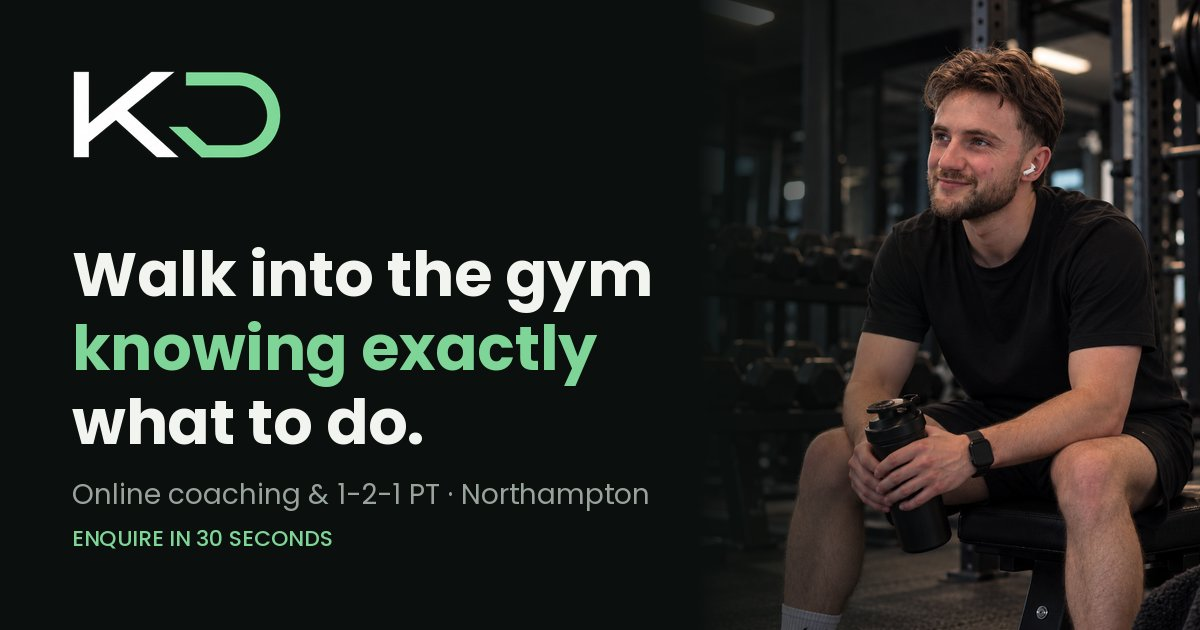
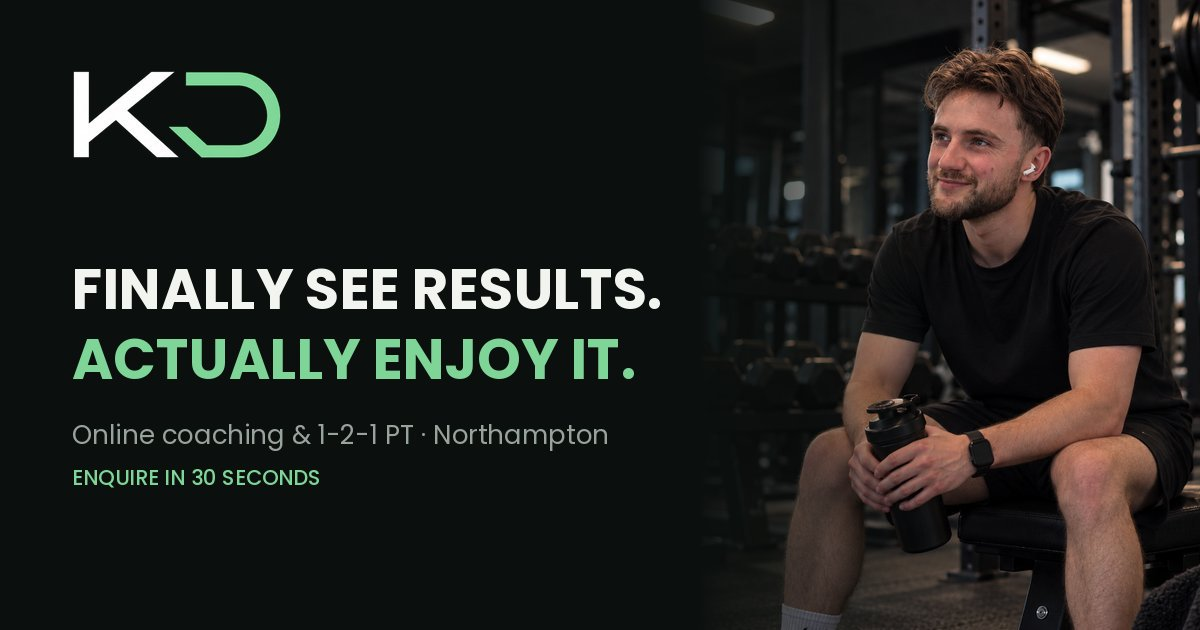
Enquiry page: new headlines and supporting line
Claude-Session: https://claude.ai/code/session_01KSTHm2rh2fwCYimoqWkbqe

Changed region(s): [[0.0617, 0.3921, 0.555, 0.8143], [0.0617, 0.8444, 0.2775, 0.8746]]

diff --git a/public/enquire.html b/public/enquire.html
@@ -8,7 +8,7 @@
 <meta name="description" content="Enquire about online coaching or 1-2-1 personal training with Kyle Denny, KD Personal Training, Northampton.">
 <meta property="og:type" content="website">
 <meta property="og:url" content="https://start.kdpersonaltraining.com/enquire">
-<meta property="og:title" content="Online coaching & 1-2-1 PT with Kyle Denny">
+<meta property="og:title" content="Finally see results. Actually enjoy it. | KD Personal Training">
 <meta property="og:description" content="Answer four quick questions and I'll get back to you personally. Online, or in person in Northampton.">
 <meta property="og:image" content="https://start.kdpersonaltraining.com/images/enquire/og.jpg">
 <meta property="og:image:width" content="1200">
@@ -153,6 +153,7 @@ h1 em { font-style: normal; color: var(--mint); }
 .how-photo { margin: 0; border-radius: var(--r); overflow: hidden; aspect-ratio: 4 / 5; max-width: 100%; position: relative; background: var(--panel); }
 .how-photo img { width: 100%; height: 100%; object-fit: cover; display: block; }
 .how-photo figcaption { position: absolute; left: 14px; bottom: 14px; font-size: 12px; font-weight: 500; background: rgba(11,15,13,0.8); padding: 5px 11px; border-radius: 999px; }
+.how-grid .label { margin-bottom: 16px; }
 .how-grid h2 { font-family: var(--display); font-weight: 900; text-transform: uppercase; font-size: clamp(30px, 3.8vw, 48px); line-height: 0.95; letter-spacing: -0.02em; margin: 0 0 32px; }
 .how-grid h2 em { font-style: normal; color: var(--mint); }
 .steps { list-style: none; margin: 0 0 36px; padding: 0; counter-reset: s; }
@@ -199,13 +200,13 @@ footer .wrap { padding-block: 28px 40px; border-top: 1px solid var(--line); disp
     </div>
     <div class="hero-copy">
       <p class="eyebrow">Online coaching &amp; 1-2-1 PT</p>
-      <h1>Walk into the gym knowing <em>exactly</em> what to do.</h1>
+      <h1>Finally see results. <em>Actually enjoy it.</em></h1>
       <p class="byline"><b>Kyle Denny</b> · Personal trainer, Northampton &amp; online</p>
     </div>
   </div>
 
   <div class="hero-form">
-    <p class="lede">New to training or stuck at a plateau, I'll give you the plan and the support to get there. Answer four quick questions and <strong>I'll get back to you personally.</strong></p>
+    <p class="lede">New to the gym, stuck at a plateau, or just ready for something different? I'll give you a plan that gets results, teach you why it works, and make training something you look forward to. Four quick questions and <strong>I'll get back to you personally.</strong></p>
     <div class="card" id="start">
       <form id="enquiry" novalidate>
         <div class="card-top">
@@ -246,7 +247,8 @@ footer .wrap { padding-block: 28px 40px; border-top: 1px solid var(--line); disp
       <figcaption>1-2-1 at Trilogy Active</figcaption>
     </figure>
     <div>
-      <h2>Here's what <em>happens next.</em></h2>
+      <p class="label">What happens next</p>
+      <h2>Your best shape starts with <em>knowing how.</em></h2>
       <ol class="steps">
         <li><div><b>Send the form</b><span>Four questions, about 30 seconds.</span></div></li>
         <li><div><b>I message you</b><span>Personally, usually within 24 hours.</span></div></li>
